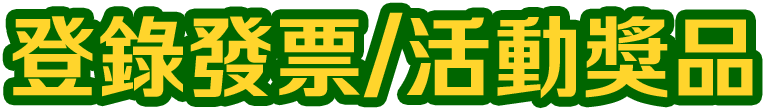
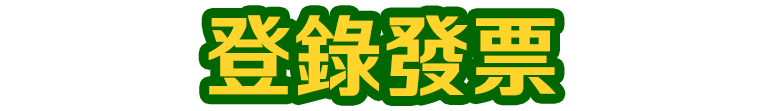
revise

diff --git a/index.html b/index.html
@@ -50,9 +50,10 @@
                     <div>
                         <img class="menu-logo" src="img/logo.png" alt="">
                         <a data-nav="1" href=""><img class="fullimg" src="img/nav-1.png" alt="活動辦法"></a>
-                        <a data-nav="2" href=""><img class="fullimg" src="img/nav-2.png" alt="登錄發票/活動獎品"></a>
-                        <a data-nav="3" href=""><img class="fullimg" src="img/nav-3.png" alt="中獎名單"></a>
-                        <a href="" data-call-lightbox><img class="fullimg" src="img/nav-4.png" alt="活動細則"></a>
+                        <a href="https://www.surveycake.com/s/W7yM2" target="_blank"><img class="fullimg" src="img/nav-2.png" alt="登錄發票"></a>
+                        <a data-nav="2" href=""><img class="fullimg" src="img/nav-3.png" alt="活動獎品"></a>
+                        <a data-nav="3" href=""><img class="fullimg" src="img/nav-4.png" alt="中獎名單"></a>
+                        <a href="" data-call-lightbox><img class="fullimg" src="img/nav-5.png" alt="活動細則"></a>
                     </div>
                 </div>
             </nav>
@@ -100,7 +101,7 @@
                             <td>肆獎</td>
                         </tr>
                         <tr>
-                            <td>肆獎</td>
+                            <td>伍獎</td>
                         </tr>
                     </table>
                     <br>

diff --git a/css/index.sass b/css/index.sass
@@ -75,7 +75,7 @@ nav
             justify-content: center
             align-items: center
             flex-direction: column
-            gap: 2rem
+            gap: 1.25rem
             height: 100%
             background: url('../img/menu-deco.png') no-repeat bottom center, url('../img/bg.jpg') no-repeat center center
             background-size: 100% auto, cover
@@ -85,8 +85,8 @@ nav
                 max-width: 150px
             a
                 display: block
-                width: 60%
-                max-width: 400px
+                width: 50%
+                max-width: 350px
 
 .wrap
     position: relative

diff --git a/css/index.css b/css/index.css
@@ -89,7 +89,7 @@ nav .menu-dropdown div {
   justify-content: center;
   align-items: center;
   flex-direction: column;
-  gap: 2rem;
+  gap: 1.25rem;
   height: 100%;
   background: url("../img/menu-deco.png") no-repeat bottom center, url("../img/bg.jpg") no-repeat center center;
   background-size: 100% auto, cover;
@@ -101,8 +101,8 @@ nav .menu-dropdown div .menu-logo {
 }
 nav .menu-dropdown div a {
   display: block;
-  width: 60%;
-  max-width: 400px;
+  width: 50%;
+  max-width: 350px;
 }
 
 .wrap {
